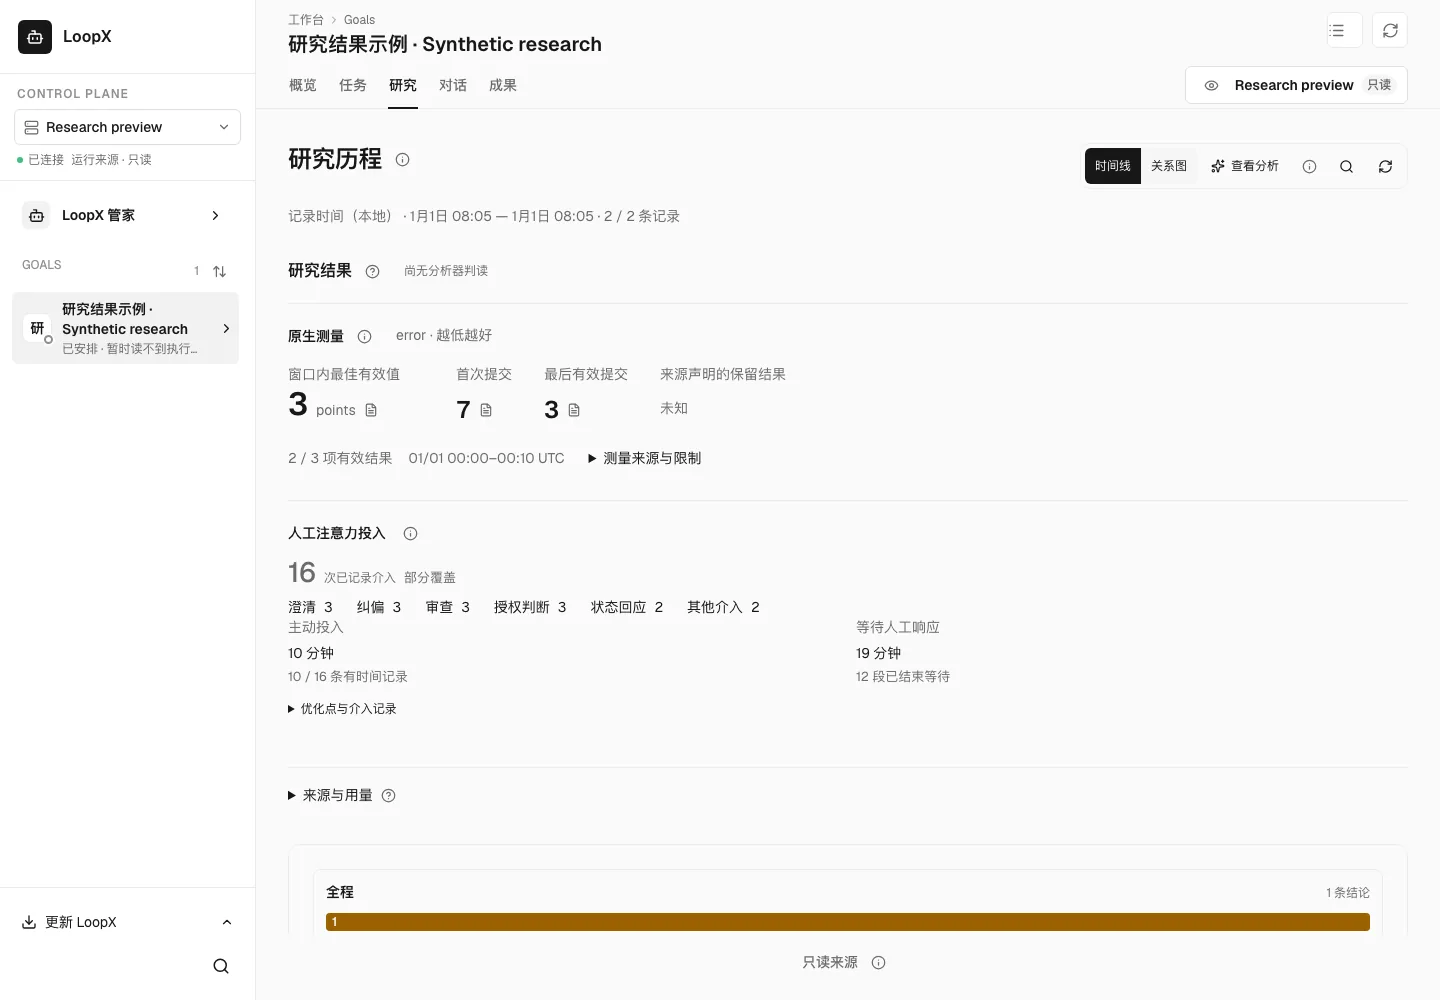
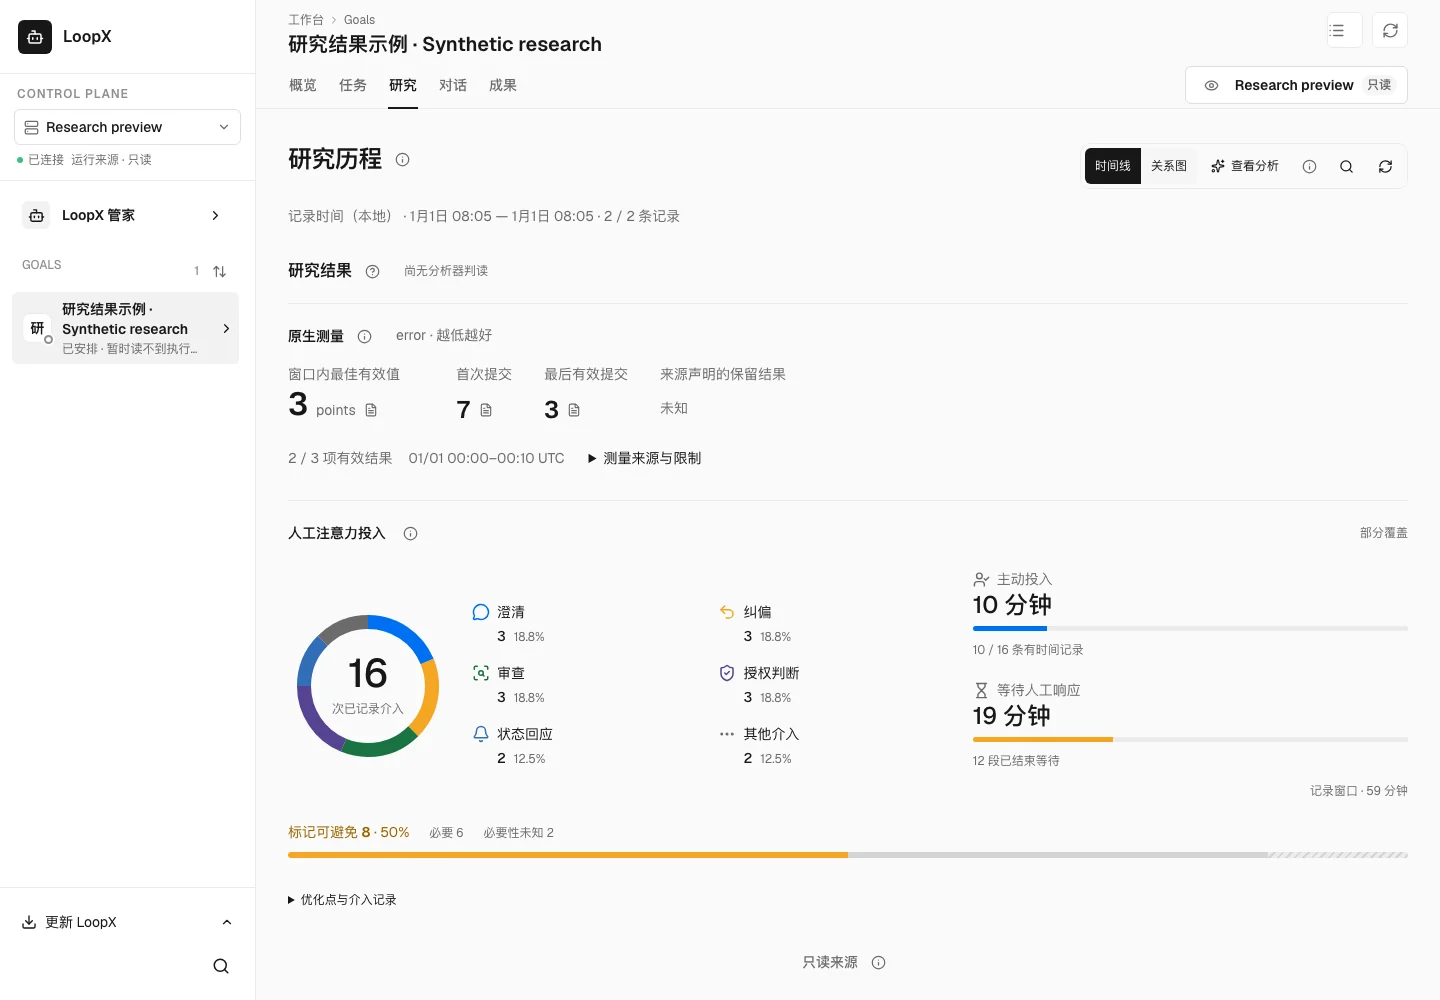
Visualize recorded attention shares in Research

diff --git a/apps/presentation/dashboard/src/features/personal-workspace/research-human-attention.tsx b/apps/presentation/dashboard/src/features/personal-workspace/research-human-attention.tsx
@@ -2,6 +2,8 @@ import type {AssessmentCitation, TrajectoryEpisode} from '../../../../../../loop
 import {HUMAN_ATTENTION_KINDS, type HumanAttentionKind, type TrajectoryHumanAttention} from '../../../../../../loopx/control_plane/capabilities/trajectory_human_attention.js';
 import {ContextHelp} from './context-help';
 import {useMemo, useState} from 'react';
+import {Bell, Ellipsis, Hourglass, MessageCircle, ScanSearch, ShieldCheck, Undo2, UserCheck, type LucideIcon} from 'lucide-react';
+import type {ReactNode} from 'react';
 import './research-human-attention.css';
 
 export type ResearchHumanAttentionCapture = {projection: TrajectoryHumanAttention; applicability: 'current' | 'historical'};
@@ -9,6 +11,31 @@ const names: Record<HumanAttentionKind, [string, string]> = {
   clarification: ['澄清', 'Clarifications'], correction: ['纠偏', 'Corrections'], review: ['审查', 'Reviews'],
   approval: ['授权判断', 'Authorization decisions'], status: ['状态回应', 'Status responses'], other: ['其他介入', 'Other inputs'],
 };
+const icons: Record<HumanAttentionKind, LucideIcon> = {
+  clarification: MessageCircle, correction: Undo2, review: ScanSearch,
+  approval: ShieldCheck, status: Bell, other: Ellipsis,
+};
+function attentionDuration(ms: number | null, zh: boolean): string {
+  if (ms === null) return zh ? '未采集' : 'Not recorded';
+  if (ms > 0 && ms < 6000) return zh ? '<0.1 分钟' : '<0.1 min';
+  return `${new Intl.NumberFormat(zh ? 'zh-CN' : 'en', {maximumFractionDigits: 1}).format(ms / 60000)} ${zh ? '分钟' : 'min'}`;
+}
+/** Independent observation tracks share the capture window, never a summed cost. */
+function AttentionTime({label, Icon, value, windowMs, coverage, zh, className}: {
+  label: string; Icon: LucideIcon; value: number | null; windowMs: number;
+  coverage: ReactNode; zh: boolean; className: string;
+}) {
+  const share = value === null || windowMs <= 0 ? null : value / windowMs;
+  return <div className={`research-attention-time ${className}`}>
+    <dt><Icon size={17} aria-hidden="true"/>{label}</dt>
+    <dd><strong>{attentionDuration(value, zh)}</strong>
+      <div className="research-attention-time-track" data-observed={share !== null}
+        role="img" aria-label={`${label} · ${attentionDuration(value, zh)} · ${zh ? '记录窗口' : 'Capture window'} ${attentionDuration(windowMs, zh)}`}>
+        {share === null ? null : <span data-share={share} style={{width: `${share * 100}%`}}/>}
+      </div><span className="research-attention-time-coverage">{coverage}</span>
+    </dd>
+  </div>;
+}
 const suggestions: Record<HumanAttentionKind, [string, string]> = {
   clarification: ['检查交接是否带上已有背景和约束，减少重复补充。', 'Check that handoffs include available context and constraints.'],
   correction: ['核对研究上下文是否保留反例、版本与适用条件，并检查下一步是否采用纠正。', 'Check that context preserves counterevidence, versions and applicability, then verify adoption of the correction.'],
@@ -29,30 +56,66 @@ export function ResearchHumanAttention({capture, episodes, zh, onCitation}: {
   const pageSize = 8, pages = Math.max(1, Math.ceil((a?.events.length ?? 0) / pageSize));
   const current = Math.min(page, pages - 1);
   const number = (n: number) => n.toLocaleString(zh ? 'zh-CN' : 'en');
-  const duration = (ms: number | null) => ms === null ? (zh ? '未采集' : 'Not recorded')
-    : ms > 0 && ms < 6000 ? (zh ? '<0.1 分钟' : '<0.1 min')
-    : `${new Intl.NumberFormat(zh ? 'zh-CN' : 'en', {maximumFractionDigits: 1}).format(ms / 60000)} ${zh ? '分钟' : 'min'}`;
+  const duration = (ms: number | null) => attentionDuration(ms, zh);
+  const percent = (share: number) => share > 0 && share < 0.001 ? '<0.1%'
+    : new Intl.NumberFormat(zh ? 'zh-CN' : 'en', {style: 'percent', maximumFractionDigits: 1}).format(share);
+  const windowMs = a ? Date.parse(a.end) - Date.parse(a.start) : 0;
+  let offset = 0;
+  const categories = a && a.total > 0 ? HUMAN_ATTENTION_KINDS.filter(kind => a.counts[kind] > 0)
+    .sort((left, right) => a.counts[right] - a.counts[left]).map(kind => {
+      const share = a.counts[kind] / a.total, start = offset;
+      offset += share * 100;
+      return {kind, count: a.counts[kind], share, start};
+    }) : [];
   const necessity = (n: string) => n === 'required' ? (zh ? '必要' : 'Required')
     : n === 'avoidable' ? (zh ? '标记可避免' : 'Marked avoidable') : (zh ? '必要性未知' : 'Necessity unknown');
   return <section className="research-human-attention" aria-label={zh ? '人工注意力投入' : 'Human attention'}>
     <div className="research-usage-heading"><h4>{zh ? '人工注意力投入' : 'Human attention'}</h4>
       <ContextHelp label={zh ? '人工投入的测量范围' : 'Human attention measurement scope'}>
         <p>{zh ? '只统计绑定到当前研究范围的人工介入记录。分类与必要性由记录方声明，来源可核对；用户角色消息、自动重规划和待审查状态不能直接证明人工投入。' : 'Counts human observations bound to this research scope. Kind and necessity are recorder declarations with inspectable sources. User-role messages, automatic replans and required-review states do not prove human input.'}</p>
-        <p>{zh ? '主动投入与等待分别按已记录时间区间去重，不相加。覆盖不全的时间只是已观测部分；未采集不是零。优化点是待核查建议，必须与后续成果质量一起验证。' : 'Active time and response waiting are separate unions of recorded intervals. Partial time coverage is observed-only; unrecorded is not zero. Optimization points are proposals to verify against subsequent outcome quality.'}</p>
+        <p>{zh ? '类型占比以已记录的完成人工介入为分母，百分比经四舍五入。两条时间轨道分别对照记录窗口；未填色区域没有该类时间记录，不能理解为空闲。主动投入与等待不相加，未采集不是零。优化点须与后续成果质量一起验证。' : 'Type shares use recorded completed inputs; percentages are rounded. Time tracks independently compare their recorded interval unions with the capture window. Unfilled regions have no time attributed to that category, not proven idle time. Active attention and waiting are not added; unrecorded is not zero. Verify optimization points against subsequent outcome quality.'}</p>
       </ContextHelp>
+      {a ? <span className="research-attention-scope">{capture?.applicability === 'historical' ? (zh ? '历史来源' : 'Historical source')
+        : a.complete ? (zh ? '记录方声明完整' : 'Recorder declares complete coverage') : (zh ? '部分覆盖' : 'Partial coverage')}</span> : null}
     </div>
     {!a ? <p>{zh ? '未采集' : 'Not recorded'}</p> : <>
-      <p className="research-attention-total"><strong>{number(a.total)}</strong> {zh ? '次已记录介入' : 'recorded inputs'}
-        <span>{capture?.applicability === 'historical' ? (zh ? '历史来源' : 'Historical source')
-          : a.complete ? (zh ? '记录方声明完整' : 'Recorder declares complete coverage') : (zh ? '部分覆盖' : 'Partial coverage')}</span></p>
-      <dl className="research-attention-counts">{HUMAN_ATTENTION_KINDS.filter(k => a.counts[k] > 0).map(k =>
-        <div key={k}><dt>{names[k][zh ? 0 : 1]}</dt><dd>{number(a.counts[k])}</dd></div>)}</dl>
-      <dl className="research-attention-times">
-        <div><dt>{zh ? '主动投入' : 'Active attention'}</dt><dd>{duration(a.active_ms)}<span>{a.active_covered} / {a.events.length} {zh ? '条有时间记录' : 'records timed'}</span></dd></div>
-        <div><dt>{zh ? '等待人工响应' : 'Waiting for human response'}</dt><dd>{duration(a.wait_ms)}<span>{a.wait_covered} {zh ? '段已结束等待' : 'closed waits'}{a.pending_requests ? ` · ${a.pending_requests} ${zh ? '段待响应' : 'pending'}` : ''}</span></dd></div>
-      </dl>
+      <div className="research-attention-overview">
+        <div className="research-attention-breakdown">
+          <div className="research-attention-donut" role="img" aria-label={zh ? `介入类型占比 · ${a.total} 次已记录介入` : `Input type shares · ${a.total} recorded inputs`}>
+            <svg viewBox="0 0 160 160" aria-hidden="true">
+              <circle cx="80" cy="80" r="64" className="research-attention-ring-track"/>
+              {categories.map(row => <circle key={row.kind} cx="80" cy="80" r="64" pathLength="100"
+                transform="rotate(-90 80 80)" data-kind={row.kind} data-count={row.count} data-share={row.share}
+                strokeDasharray={`${row.share * 100} ${100 - row.share * 100}`} strokeDashoffset={-row.start}/>) }
+            </svg>
+            <p className="research-attention-total"><strong>{number(a.total)}</strong><span>{zh ? '次已记录介入' : 'recorded inputs'}</span></p>
+          </div>
+          <dl className="research-attention-counts">{categories.map(row => {
+            const Icon = icons[row.kind];
+            return <div key={row.kind} data-kind={row.kind}><dt><Icon size={18} aria-hidden="true"/>{names[row.kind][zh ? 0 : 1]}</dt>
+              <dd><strong>{number(row.count)}</strong><span>{percent(row.share)}</span></dd></div>;
+          })}</dl>
+        </div>
+        <div className="research-attention-time-overview">
+          <dl className="research-attention-times">
+            <AttentionTime label={zh ? '主动投入' : 'Active attention'} Icon={UserCheck} value={a.active_ms} windowMs={windowMs}
+              coverage={<>{a.active_covered} / {a.events.length} {zh ? '条有时间记录' : 'records timed'}</>} zh={zh} className="attention-active"/>
+            <AttentionTime label={zh ? '等待人工响应' : 'Waiting for human response'} Icon={Hourglass} value={a.wait_ms} windowMs={windowMs}
+              coverage={<>{a.wait_covered} {zh ? '段已结束等待' : 'closed waits'}{a.pending_requests ? ` · ${a.pending_requests} ${zh ? '段待响应' : 'pending'}` : ''}</>} zh={zh} className="attention-waiting"/>
+          </dl>
+          {windowMs > 0 ? <p className="research-attention-window">{zh ? '记录窗口' : 'Capture window'} · {duration(windowMs)}</p> : null}
+        </div>
+      </div>
+      {a.total > 0 ? <div className="research-attention-opportunity">
+        <div className="research-attention-necessity-legend"><span data-necessity="avoidable">{zh ? '标记可避免' : 'Marked avoidable'} <strong>{a.avoidable}</strong> · {percent(a.avoidable / a.total)}</span>
+          <span>{zh ? '必要' : 'Required'} {a.required}</span><span>{zh ? '必要性未知' : 'Necessity unknown'} {a.unknown}</span></div>
+        <div className="research-attention-necessity-track" role="img" aria-label={zh ? `标记可避免 ${a.avoidable} · 必要 ${a.required} · 必要性未知 ${a.unknown}` : `Marked avoidable ${a.avoidable} · Required ${a.required} · Necessity unknown ${a.unknown}`}>
+          <span data-necessity="avoidable" data-count={a.avoidable} style={{width: `${a.avoidable / a.total * 100}%`}}/>
+          <span data-necessity="required" data-count={a.required} style={{width: `${a.required / a.total * 100}%`}}/>
+          <span data-necessity="unknown" data-count={a.unknown} style={{width: `${a.unknown / a.total * 100}%`}}/>
+        </div>
+      </div> : null}
       <details className="research-attention-detail"><summary>{zh ? '优化点与介入记录' : 'Optimization points and input records'}</summary>
-        <p>{zh ? `必要 ${a.required} · 标记可避免 ${a.avoidable} · 必要性未知 ${a.unknown}` : `Required ${a.required} · Marked avoidable ${a.avoidable} · Necessity unknown ${a.unknown}`}</p>
         {a.optimization_points.length ? <ul className="research-attention-opportunities">{a.optimization_points.map(point => <li key={point.kind}>
           <strong>{names[point.kind][zh ? 0 : 1]} · {point.event_ids.length}</strong><p>{suggestions[point.kind][zh ? 0 : 1]}</p>
           {point.event_ids.slice(0, 3).map(id => {const event = byId.get(id)!; return <button type="button" key={id}

diff --git a/apps/presentation/dashboard/src/features/personal-workspace/research-human-attention.css b/apps/presentation/dashboard/src/features/personal-workspace/research-human-attention.css
@@ -1,21 +1,55 @@
 .research-human-attention { margin-block: 20px; padding-block: 16px; border-block-start: 1px solid var(--pw-line); }
-.research-attention-total { display: flex; flex-wrap: wrap; align-items: baseline; gap: 8px; }
-.research-attention-total strong { font-size: 28px; font-weight: 500; }
-.research-attention-total span, .research-attention-times span { color: var(--pw-muted); font-size: 13px; }
-.research-attention-counts { display: flex; flex-wrap: wrap; gap: 12px 24px; }
-.research-attention-counts div { display: flex; gap: 8px; }
-.research-attention-counts dd { margin: 0; }
-.research-attention-times { display: grid; grid-template-columns: repeat(2, minmax(0, 1fr)); gap: 16px; }
-.research-attention-times dt { color: var(--pw-muted); }
-.research-attention-times dd { margin: 6px 0 0; }
-.research-attention-times span { display: block; margin-top: 4px; }
+.research-human-attention > .research-usage-heading { margin-bottom: 20px; flex-wrap: wrap; }
+.research-attention-scope { margin-inline-start: auto; color: var(--pw-muted); font-size: var(--text-caption); }
+.research-attention-overview { display: grid; grid-template-columns: minmax(0, 1.5fr) minmax(240px, 1fr); gap: 32px; align-items: center; }
+.research-attention-breakdown { display: flex; gap: 24px; align-items: center; min-width: 0; }
+.research-attention-donut { position: relative; width: 160px; height: 160px; flex-shrink: 0; }
+.research-attention-donut svg { display: block; width: 100%; height: 100%; }
+.research-attention-donut circle { fill: none; stroke: var(--attention-color, var(--pw-track)); stroke-width: 14px; }
+.research-attention-donut .research-attention-ring-track { stroke: var(--pw-line); }
+.research-attention-total { position: absolute; inset: 0; margin: 0; display: flex; flex-direction: column; align-items: center; justify-content: center; gap: 4px; }
+.research-attention-total strong { font-size: 40px; font-weight: 500; line-height: 1.1; color: var(--pw-text); }
+.research-attention-total span { color: var(--pw-muted); font-size: var(--text-caption); }
+.research-human-attention .research-attention-counts { display: grid; grid-template-columns: repeat(2, minmax(0, 1fr)); gap: 16px 24px; margin: 0; flex: 1; min-width: 0; }
+.research-attention-counts div { min-width: 0; }
+.research-attention-counts dt { display: flex; align-items: center; gap: 7px; color: var(--pw-text); }
+.research-attention-counts dt svg { flex-shrink: 0; color: var(--attention-color); }
+.research-attention-counts dd { display: flex; align-items: baseline; gap: 8px; margin: 4px 0 0 25px; }
+.research-attention-counts dd strong { font-weight: 500; }
+.research-attention-counts dd span { color: var(--pw-muted); font-size: var(--text-caption); }
+.research-human-attention [data-kind="clarification"] { --attention-color: var(--pw-blue); }
+.research-human-attention [data-kind="correction"] { --attention-color: var(--pw-caution); }
+.research-human-attention [data-kind="review"] { --attention-color: var(--pw-green); }
+.research-human-attention [data-kind="approval"] { --attention-color: color-mix(in srgb, var(--pw-blue) 60%, var(--pw-red)); }
+.research-human-attention [data-kind="status"] { --attention-color: color-mix(in srgb, var(--pw-blue) 55%, var(--pw-muted)); }
+.research-human-attention [data-kind="other"] { --attention-color: var(--pw-muted); }
+.research-human-attention .research-attention-times { display: grid; gap: 20px; margin: 0; }
+.research-attention-time dt { display: flex; align-items: center; gap: 7px; color: var(--pw-muted); }
+.research-attention-time dd { margin: 6px 0 0; }
+.research-attention-time dd > strong { font-size: 24px; font-weight: 500; color: var(--pw-text); }
+.research-attention-time-track { height: 5px; overflow: hidden; margin-block: 8px; border-radius: 3px; background: var(--pw-line); }
+.research-attention-time-track span { display: block; height: 100%; background: var(--pw-blue); }
+.attention-waiting .research-attention-time-track span { background: var(--pw-caution); }
+.research-attention-time-track[data-observed="false"], .research-attention-necessity-track [data-necessity="unknown"] { background: repeating-linear-gradient(135deg, var(--pw-line) 0 4px, var(--pw-track) 4px 6px); }
+.research-attention-time-coverage, .research-attention-window { color: var(--pw-muted); font-size: var(--text-caption); }
+.research-attention-window { margin: 10px 0 0; text-align: end; }
+.research-attention-opportunity { margin-block: 20px; }
+.research-attention-necessity-legend { display: flex; flex-wrap: wrap; gap: 8px 20px; align-items: baseline; }
+.research-attention-necessity-legend span { color: var(--pw-muted); font-size: var(--text-caption); }
+.research-attention-necessity-legend [data-necessity="avoidable"] { color: var(--pw-amber); font-size: var(--text-body); }
+.research-attention-necessity-track { display: flex; height: 6px; border-radius: 3px; overflow: hidden; margin-top: 9px; }
+.research-attention-necessity-track span { height: 100%; }
+.research-attention-necessity-track [data-necessity="avoidable"] { background: var(--pw-caution); }
+.research-attention-necessity-track [data-necessity="required"] { background: var(--pw-track); }
 .research-attention-detail summary { cursor: pointer; }
 .research-attention-opportunities, .research-attention-events { padding-inline-start: 20px; }
 .research-attention-opportunities li, .research-attention-events li { margin-block: 14px; }
 .research-attention-opportunities button { margin: 4px 8px 4px 0; }
-.research-attention-events time { display: block; color: var(--pw-muted); font-size: 13px; }
+.research-attention-events time { display: block; color: var(--pw-muted); font-size: var(--text-caption); }
 .research-attention-detail p, .research-attention-detail button, .research-attention-events dl { overflow-wrap: anywhere; }
 .research-attention-events dl { display: grid; grid-template-columns: auto 1fr; gap: 6px 16px; }
 .research-attention-events dd { margin: 0; }
 .research-attention-pages { display: flex; align-items: center; gap: 12px; }
-@media (max-width: 600px) { .research-attention-times { grid-template-columns: 1fr; } }
+@media (max-width: 1120px) { .research-attention-overview { grid-template-columns: 1fr; gap: 24px; } .research-human-attention .research-attention-times { grid-template-columns: repeat(2, minmax(0, 1fr)); gap: 24px; } }
+@media (max-width: 600px) { .research-attention-breakdown { gap: 16px; } .research-attention-donut { width: 128px; height: 128px; } .research-human-attention .research-attention-counts { grid-template-columns: 1fr; gap: 10px; } .research-attention-counts > div { display: flex; align-items: baseline; gap: 8px; } .research-attention-counts dd { margin: 0 0 0 auto; gap: 8px; } .research-attention-counts dd span { min-width: 44px; text-align: end; } .research-attention-counts dt { min-width: 0; } .research-attention-overview { gap: 20px; } }
+@media (max-width: 420px) { .research-attention-donut { width: clamp(96px, 32vw, 128px); height: clamp(96px, 32vw, 128px); } .research-attention-counts dt { overflow-wrap: anywhere; } .research-attention-counts dd span { min-width: 38px; } .research-attention-time dt { min-height: 2lh; align-items: flex-start; } }

diff --git a/docs/reference/trajectory-assessment.md b/docs/reference/trajectory-assessment.md
@@ -731,10 +731,18 @@ presentation; attention remains unrecorded in the source disclosure.
 
 ![Research without a human-observation capture](../development/assets/research-analysis/attention-before-desktop.webp)
 
-With a supplied capture, the first screen shows recorded inputs and timing
-coverage together. This synthetic example has 16 distinct inputs, ten minutes
-of recorded active attention and nineteen minutes of overlapping response
-waiting after union; timing coverage remains partial.
+With a supplied capture, the first screen uses a ring and category icons to show
+the share of each type among recorded completed inputs. Rounded percentages
+describe input counts, not cognitive effort. Active attention and response
+waiting have separate time tracks against the capture window; unfilled regions
+do not establish idle time, and the two durations are not added.
+
+This synthetic example has 16 distinct inputs, ten minutes of recorded active
+attention and nineteen minutes of response waiting after separate interval
+unions, within a 59-minute capture window. Timing coverage remains partial. The
+necessity bar shows eight inputs **Marked avoidable** (50%), six required and two
+unknown. These are recorder declarations to inspect through the original
+evidence, not measured savings or a reason to remove required review.
 
 ![Recorded human inputs and separate active and waiting time](../development/assets/research-analysis/attention-after-desktop.webp)
 
@@ -744,9 +752,11 @@ page. These are packaged UI screenshots from the retained
 
 ![Narrow reader with source-linked optimization points](../development/assets/research-analysis/attention-optimization-narrow.webp)
 
-研究页将人工介入与求解 Token、经过时间分开展示。展开“优化点与介入记录”可核对
-澄清、纠偏、审查、授权判断等投入的必要性、关联研究片段与原始依据；主动投入和
-等待分别统计。浏览不调用模型；旧记录在“来源与用量”中显示“未采集”。
+研究页将人工介入与求解 Token、经过时间分开展示。圆环和图标表示已记录完成介入
+的类型次数占比，不代表脑力权重；主动投入和等待分别对照记录窗口，不相加，未填色
+不能推断为空闲。必要性比例保留“标记可避免”的限定，不代表实际节省，也不把必要
+审查视为浪费。展开“优化点与介入记录”可核对必要性、关联研究片段与原始依据。
+浏览不调用模型；旧记录在“来源与用量”中显示“未采集”，未采集不能当作零。
 
 An Agent/provider prepares the capture from typed human receipts or explicit
 human observations within the already authorized source root. Add the complete
